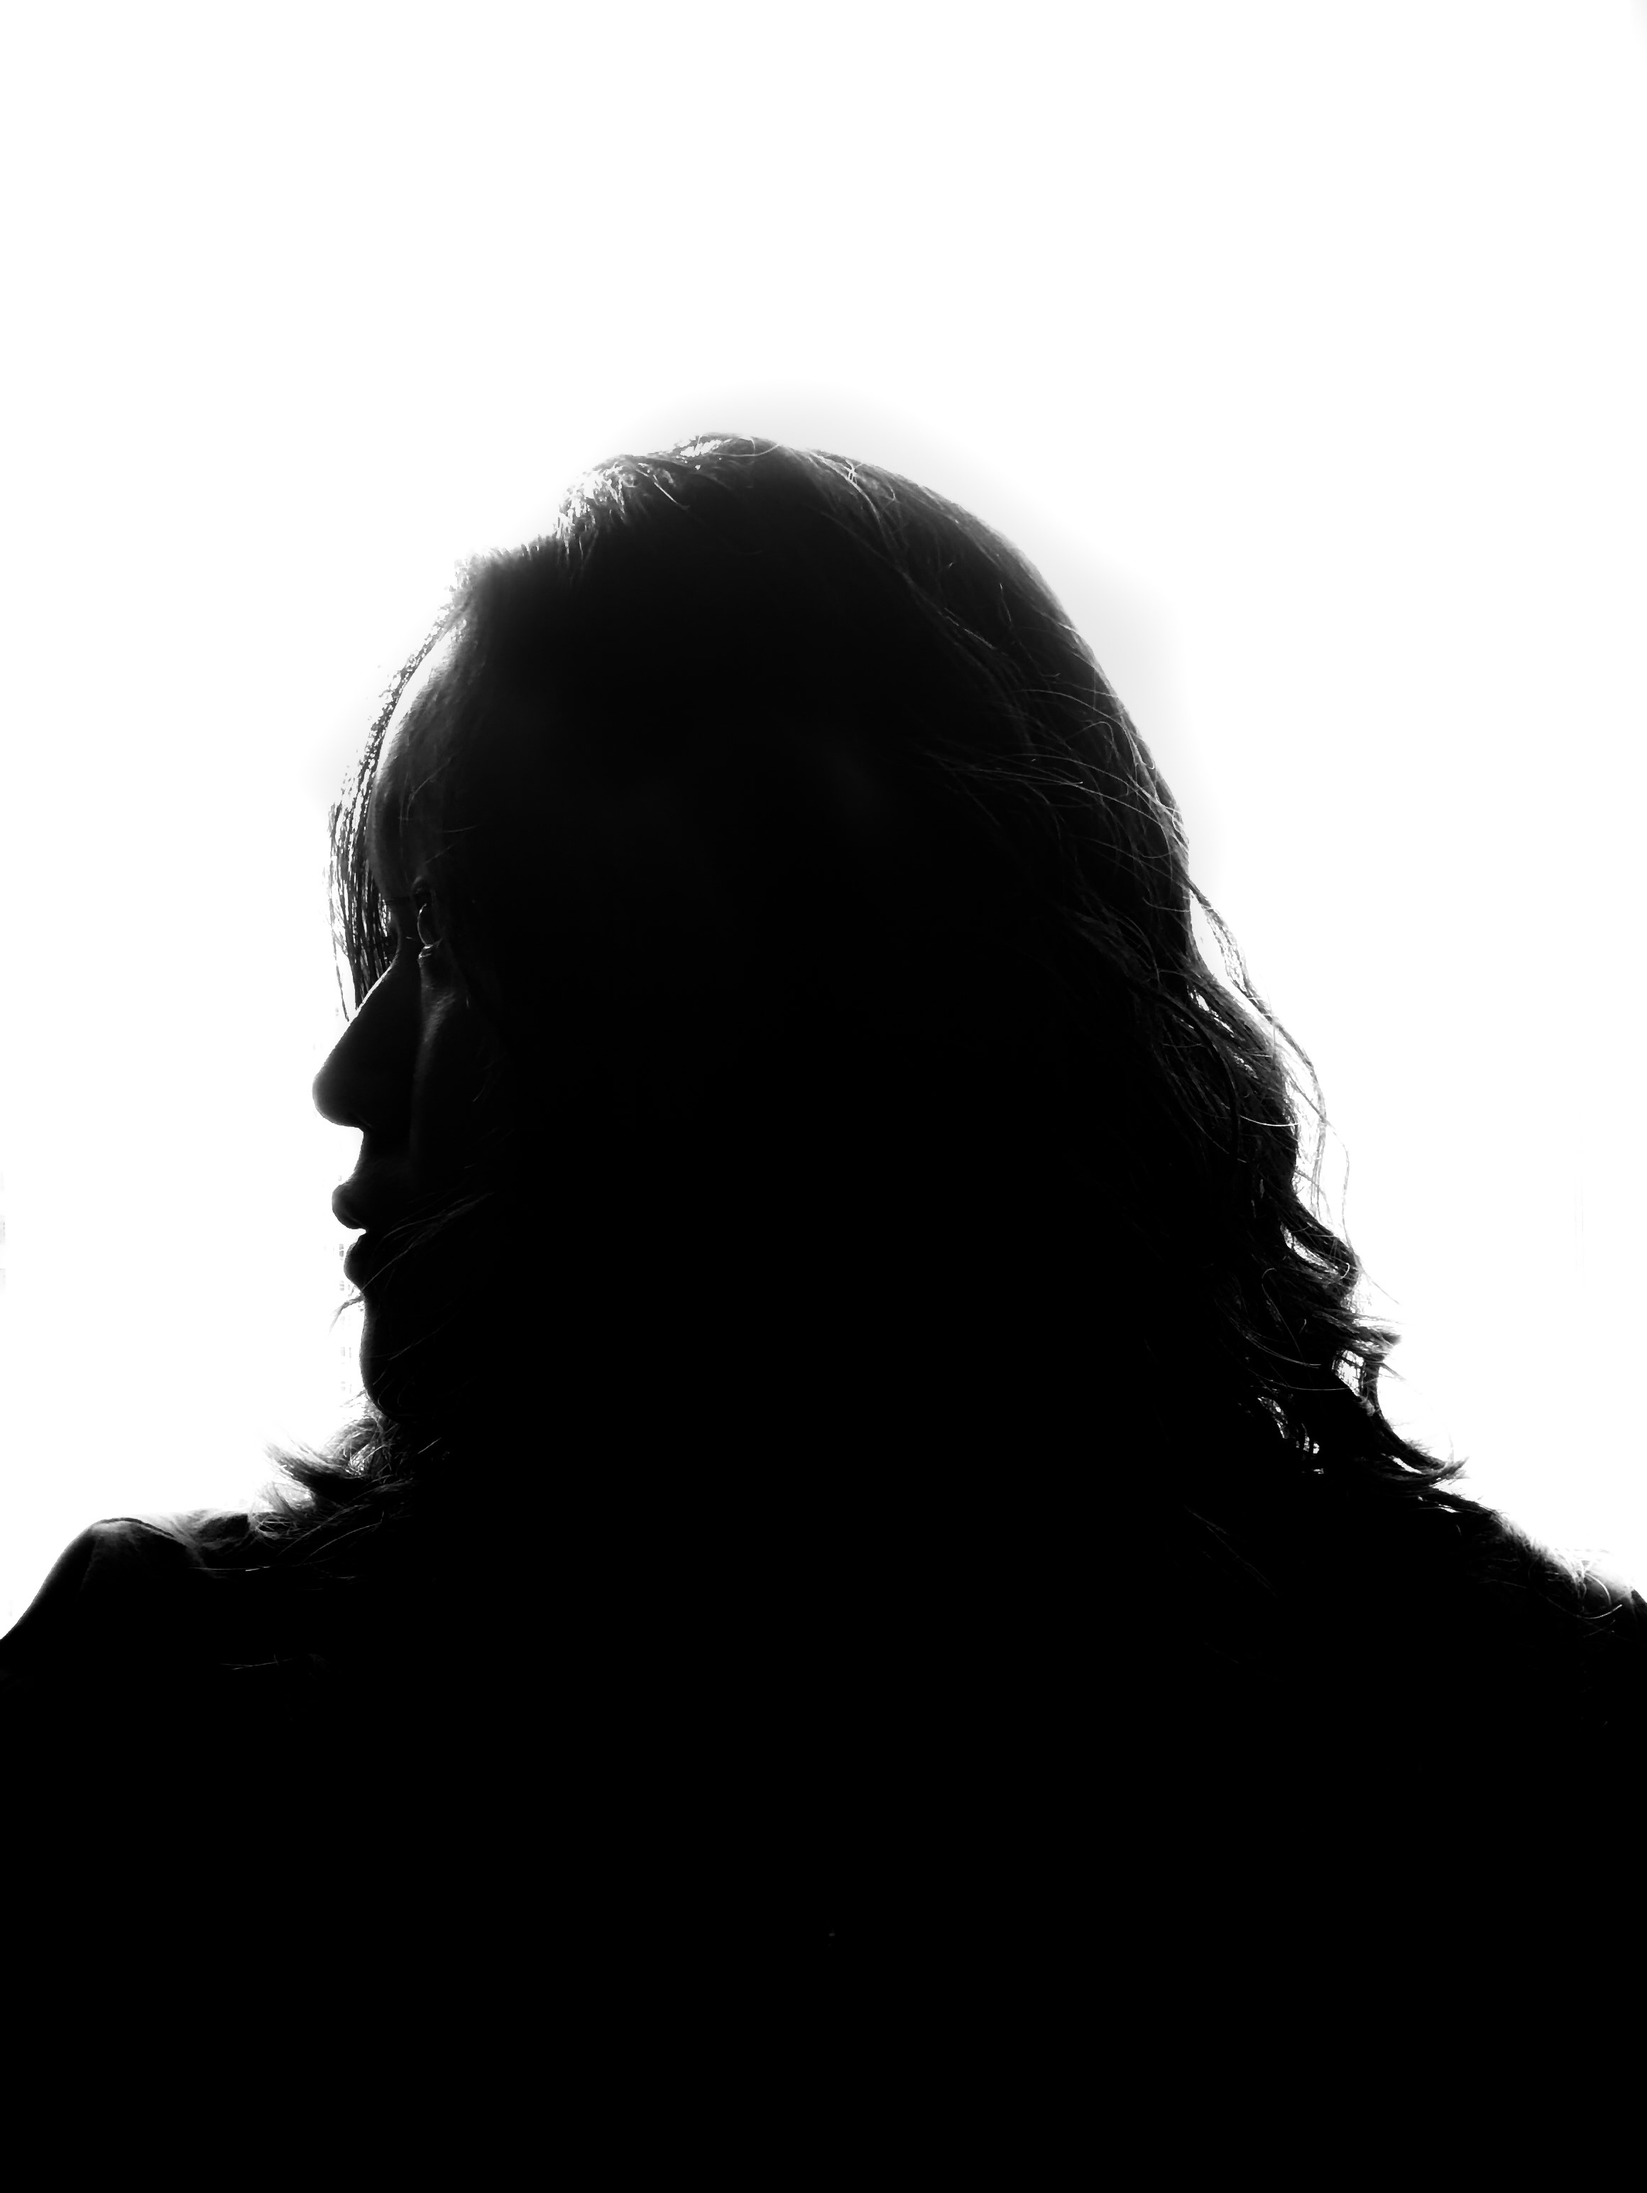
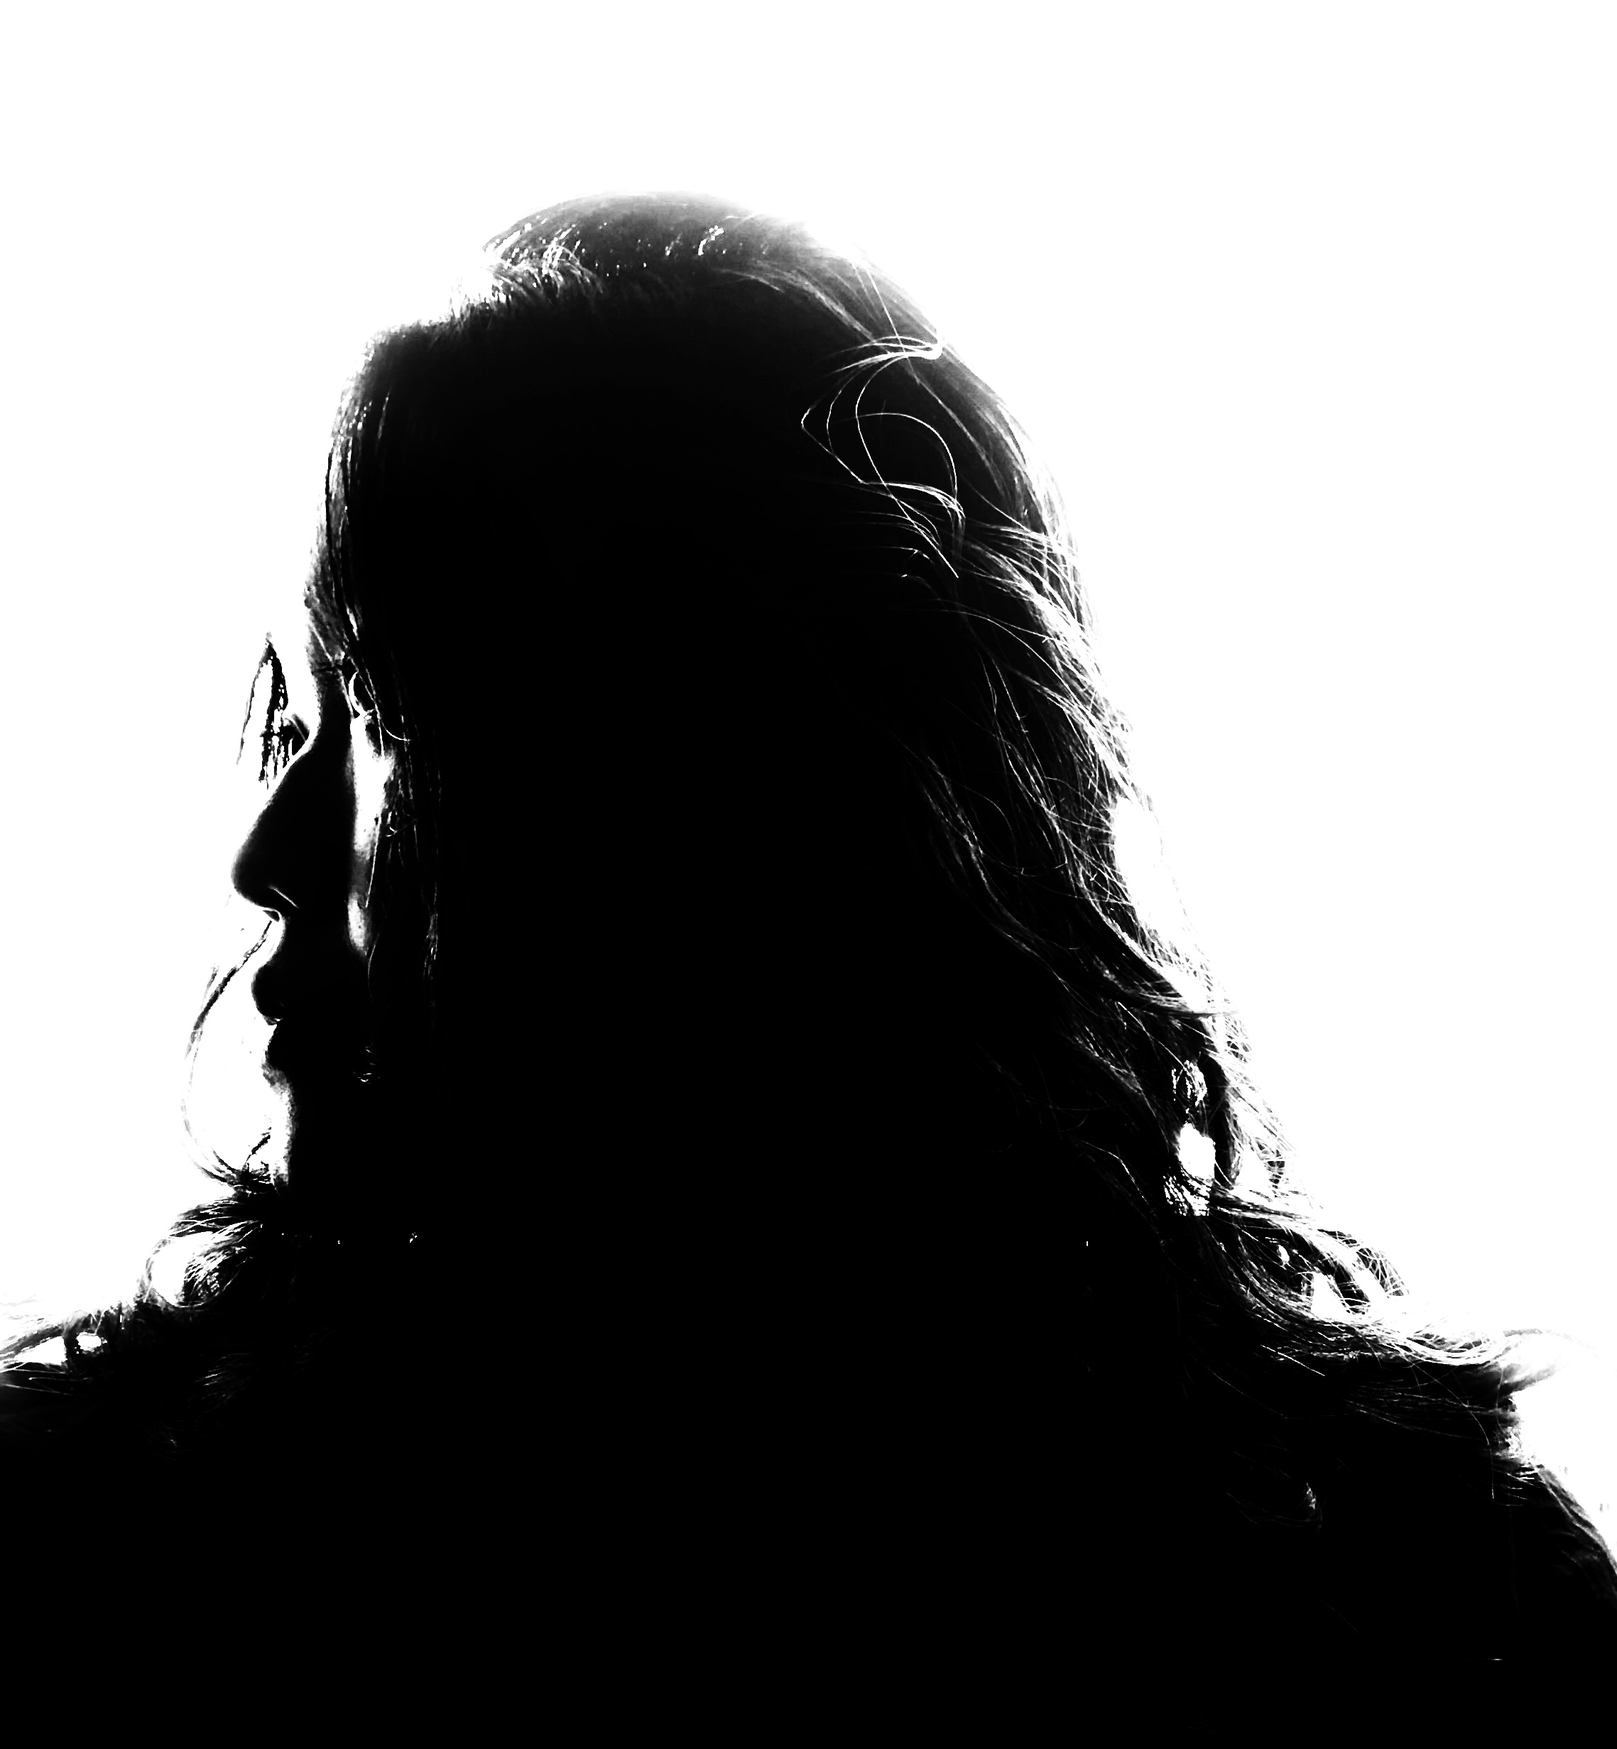
Updated typos, added headshots
Added in 5 missing headshots, fixed cropping of line images, edited typos and descriptions

Changed region(s): [[0.0, 0.0926, 1.0, 0.9257]]

diff --git a/src/data/people_data.js b/src/data/people_data.js
@@ -28,7 +28,7 @@ import elizabew from "../../assets/img/people/Elizabeth Wang.jpg";
 import ahl2 from "../../assets/img/people/Angela Lee.jpg";
 // import alcai from '../../assets/img/people/null';
 // import ehyang from '../../assets/img/people/null';
-// import ertsai from '../../assets/img/people/null';
+import ertsai from "../../assets/img/people/Elysha Tsai.jpg";
 import chsong from "../../assets/img/people/Caroline Song.jpg";
 import puxins from "../../assets/img/people/Clytze Sun.jpg";
 import ddomalik from "../../assets/img/people/David Domalik.jpg";
@@ -107,6 +107,9 @@ import emao1 from "../../assets/img/people/Eileen Mao.jpg";
 import reshin from "../../assets/img/people/Rachel Shin.jpg";
 import asegar from "../../assets/img/people/Andre Segar.jpg";
 import ebrunner from "../../assets/img/people/Emily Brunner.jpg";
+import aranders from "../../assets/img/people/Anna Anderson.jpg";
+import loberman from "../../assets/img/people/Lily Oberman.jpg";
+import hsiaotyp from "../../assets/img/people/Hsiao Tyng Peck.jpg";
 
 import bboxer from "../../assets/img/people/Ben Boxer.jpg";
 import jhopper from "../../assets/img/people/J.D. Hopper.jpg";
@@ -143,7 +146,7 @@ export const PEOPLE_DATA = {
     image: szhai,
   },
   jsaik: {
-    first_name: "Jaclyn ",
+    first_name: "Jaclyn",
     last_name: "Saik",
     team: "Creative",
     position: "Web Designer",
@@ -279,7 +282,7 @@ export const PEOPLE_DATA = {
     last_name: "Tsai",
     team: "Creative",
     position: "Print Designer",
-    filename: null,
+    image: ertsai,
   },
   chsong: {
     first_name: "Caroline",
@@ -492,7 +495,7 @@ export const PEOPLE_DATA = {
     last_name: "Peck",
     team: "Design",
     position: "Designer: Icarus",
-    filename: null,
+    image: hsiaotyp,
   },
   jwesthei: {
     first_name: "Jessa",
@@ -625,7 +628,7 @@ export const PEOPLE_DATA = {
     last_name: "Balenzano",
     team: "Model",
     position: "Model",
-    filename: "Kyra Balenzano.jpg",
+    filename: "Kyra Balenzano.jpg", 
     image: kbalenza,
   },
   lgunasek: {
@@ -827,14 +830,14 @@ export const PEOPLE_DATA = {
     last_name: "Oberman",
     team: "Design",
     position: "Designer: The Marianas Trench",
-    filename: null,
-    image: null,
+    filename: "Lily Oberman.jpg",
+    image: loberman,
   },
   ddelgad1: {
     first_name: "Daniela",
     last_name: "Delgado",
     team: "Producers",
-    position: "Producer",
+    position: "Former Producer & Contributor",
     image: ddelgad1,
   },
   yuxilee: {
@@ -1052,13 +1055,20 @@ export const PEOPLE_DATA = {
     last_name: "Anderson",
     team: "Public Relations",
     position: "Copywriter",
-    image: null,
+    image: aranders,
   },
   annien: {
     first_name: "Annie",
     last_name: "Nguyen",
     team: "Production",
     position: "Assist Sound Designer",
+    image: null,
+  },
+  jhelms: {
+    first_name: "Tucker",
+    last_name: "Helms",
+    team: "Production",
+    position: "Composer",
     image: null,
   },
 };
@@ -1167,6 +1177,7 @@ export const PEOPLE_BY_TEAMS = {
     "kwalsh",
     "traviswr",
     "mzwiebel",
+    "jhelms",
   ],
   Creative: [
     "scarpent",

diff --git a/src/data/line_data.js b/src/data/line_data.js
@@ -72,7 +72,7 @@ export const LINE_INFO = [
   {
     name: 'Mirror',
     designers: [
-      'Khushi Nandgoankar',
+      'Khushi Nandgaonkar',
       'Kathy Zhang'
     ],
     video_ready: 'https://streamable.com/zaclht',
@@ -108,7 +108,7 @@ export const LINE_INFO = [
       'Patricia Yu'
     ],
     video_ready: 'https://streamable.com/fjsba8',
-    description: 'Different reactions were taken towards a shared experience recently. Whether it was advantageous or a catastrophe, Salvos embodies this moment in history - each costume reflects methods and values of “survival” that people have taken. The entropy of the pursuit of survival in action is intense, and may seem counterintuitive when seen individually. But when together, the spirit is strong and harmonious, giving hope to new beginnings.',
+    description: 'Many events that happened since 2019 has shown us how people have reacted differently towards a common situation. Although we share an experience, our actions are disorganized and chaotic. Whether that is an advantage or a catastrophe, we have seen a range of means for survival due to everyone’s unique environment and worldviews. I wanted to embody this where each outfit reflects the methods and values of “survival” that people have taken.',
     img_1: SALVOS_1,
     img_2: SALVOS_2,
   },
